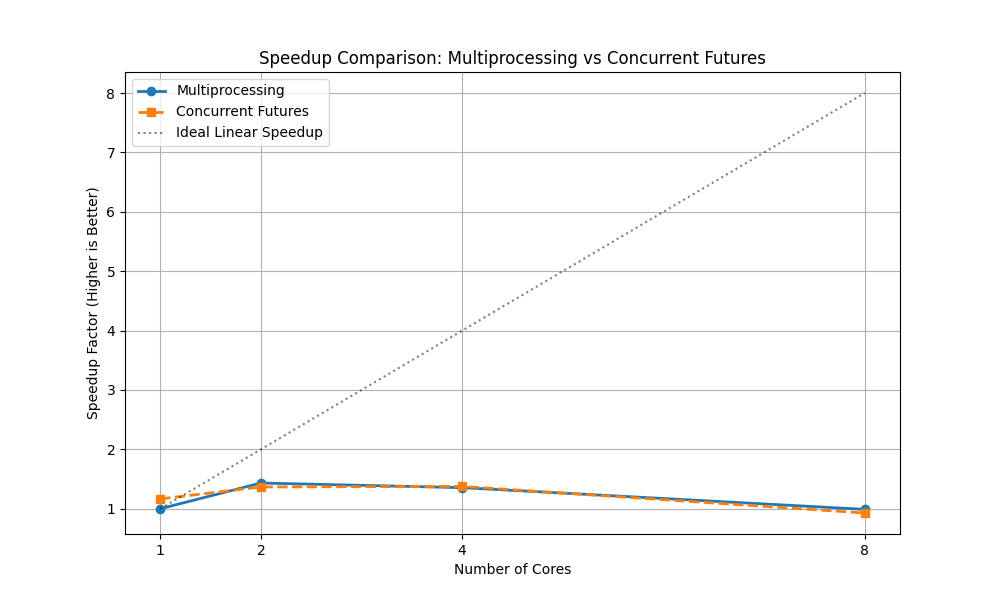
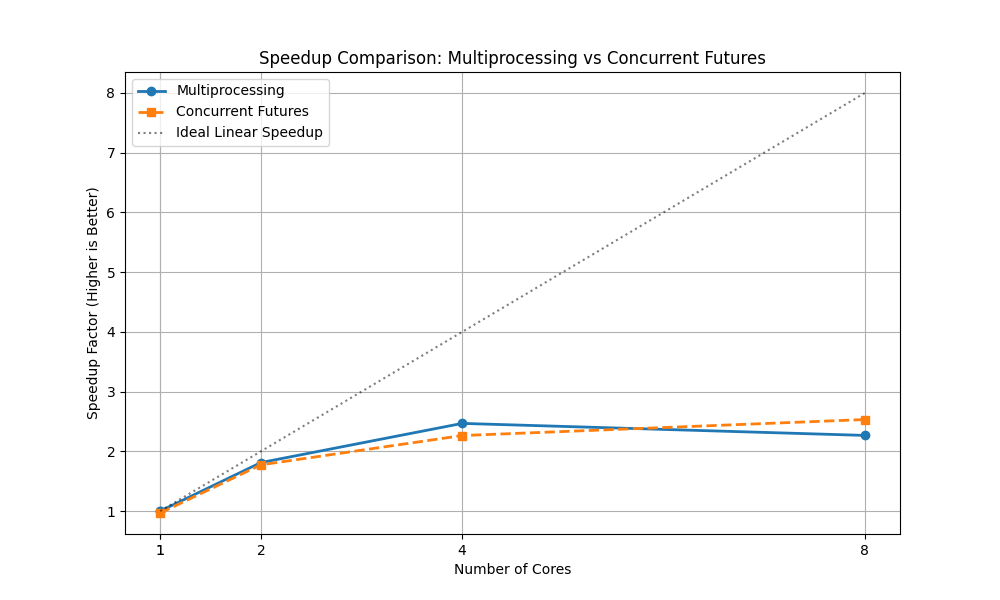
modify the output layout for benchmark.py

diff --git a/benchmark.py b/benchmark.py
@@ -13,7 +13,7 @@ def run_benchmark_suite():
     # Use a reasonable number of images for benchmarking (e.g., 20)
     # The user mentioned "Food-101 dataset (I will use a manageable subset)"
     # We will use 20 images to keep the benchmark fast but representative for this demo.
-    NUM_IMAGES = 20 
+    NUM_IMAGES = 500 
     
     print(f"Loading {NUM_IMAGES} images from {INPUT_DIR}...")
     image_paths = data_loader.get_image_paths(INPUT_DIR, limit=NUM_IMAGES)
@@ -39,18 +39,15 @@ def run_benchmark_suite():
 
     print(f"Testing Cores: {valid_cores}")
     print("-" * 60)
-    print(f"{'Method':<20} | {'Cores':<5} | {'Time (s)':<10} | {'Speedup':<8} | {'Efficiency':<8}")
-    print("-" * 60)
     
     results = []
     
     # Baseline (1 Core Multiprocessing)
-    # We use this as T_1 for speedup calculations = T_1 / T_p
-    print(f"{'Baseline (MP)':<20} | {1:<5} | ", end="", flush=True)
+    print(f"Running Baseline (MP 1 Core)... ", end="", flush=True)
     start = time.time()
     parallel_ops.run_multiprocessing(tasks, 1)
     t_1 = time.time() - start
-    print(f"{t_1:<10.4f} | {'1.00':<8} | {'1.00':<8}")
+    print(f"Done in {t_1:.4f}s")
     
     results.append({
         "Method": "Baseline (MP)",
@@ -60,34 +57,52 @@ def run_benchmark_suite():
         "Efficiency": 1.0
     })
 
-    methods = [
-        ("Multiprocessing", parallel_ops.run_multiprocessing),
-        ("Concurrent Futures", parallel_ops.run_concurrent_futures)
-    ]
+    # Run all tests first
+    mp_results = {} # Map cores -> stats
+    cf_results = {} # Map cores -> stats
     
-    for name, func in methods:
-        for cores in valid_cores:
-            if name == "Multiprocessing" and cores == 1:
-                continue # Already done baseline
-                
-            print(f"{name:<20} | {cores:<5} | ", end="", flush=True)
-            
+    print("\nRunning Tests...")
+    for cores in valid_cores:
+        # Multiprocessing
+        if cores == 1:
+            stats = {"Time": t_1, "Speedup": 1.0, "Efficiency": 1.0}
+        else:
+            print(f"  > Multiprocessing ({cores} cores)... ", end="", flush=True)
             start = time.time()
-            func(tasks, cores)
-            duration = time.time() - start
+            parallel_ops.run_multiprocessing(tasks, cores)
+            dur = time.time() - start
+            stats = {"Time": dur, "Speedup": t_1/dur, "Efficiency": (t_1/dur)/cores}
+            print(f"{dur:.4f}s")
             
-            speedup = t_1 / duration
-            efficiency = speedup / cores
-            
-            print(f"{duration:<10.4f} | {speedup:<8.2f} | {efficiency:<8.2f}")
-            
-            results.append({
-                "Method": name,
-                "Cores": cores,
-                "Time": duration,
-                "Speedup": speedup,
-                "Efficiency": efficiency
-            })
+        mp_results[cores] = stats
+        results.append({**stats, "Method": "Multiprocessing", "Cores": cores})
+        
+        # Concurrent Futures
+        print(f"  > Concurrent Futures ({cores} cores)... ", end="", flush=True)
+        start = time.time()
+        parallel_ops.run_concurrent_futures(tasks, cores)
+        dur = time.time() - start
+        stats = {"Time": dur, "Speedup": t_1/dur, "Efficiency": (t_1/dur)/cores}
+        print(f"{dur:.4f}s")
+        
+        cf_results[cores] = stats
+        results.append({**stats, "Method": "Concurrent Futures", "Cores": cores})
+
+    # Print Side-by-Side Table
+    print("\n" + "="*85)
+    print(f"{'Cores':<6} | {'MP Time':<9} {'MP Spd':<8} | {'CF Time':<9} {'CF Spd':<8} | {'Winner':<10}")
+    print("-" * 85)
+    
+    for cores in valid_cores:
+        mp = mp_results[cores]
+        cf = cf_results[cores]
+        
+        winner = "MP" if mp["Time"] < cf["Time"] else "CF"
+        if abs(mp["Time"] - cf["Time"]) < 0.01: winner = "Tie"
+        
+        print(f"{cores:<6} | {mp['Time']:<9.4f} {mp['Speedup']:<8.2f} | {cf['Time']:<9.4f} {cf['Speedup']:<8.2f} | {winner:<10}")
+        
+    print("="*85)
 
     # Save details to CSV
     csv_path = "benchmark_results.csv"
@@ -96,8 +111,7 @@ def run_benchmark_suite():
         writer.writeheader()
         writer.writerows(results)
         
-    print("-" * 60)
-    print(f"Results saved to {csv_path}")
+    print(f"\nResults saved to {csv_path}")
     
     # Generate Plot
     plot_results(results)
